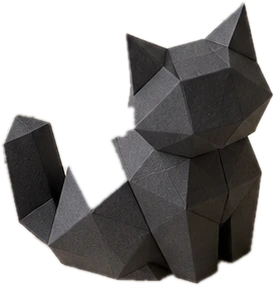
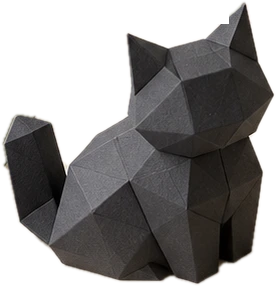
Fix cat cutout (missing back facets) and make it smaller
Claude-Session: https://claude.ai/code/session_01JDrZAnP6vo5iH3Zm12SnHF

diff --git a/index.html b/index.html
@@ -89,7 +89,7 @@ svg{display:block;overflow:visible}
 .laptop .cursor{animation:blink 1s steps(2) infinite}
 @keyframes blink{50%{opacity:0}}
 .envelope{left:24%;bottom:86px;width:120px;filter:drop-shadow(0 6px 5px rgba(60,50,35,.25));transform:rotate(-6deg)}
-.cat{left:7%;bottom:62px;width:150px;cursor:pointer;filter:drop-shadow(0 14px 10px rgba(40,35,30,.35));transform:translate(calc(var(--px)*10px),0);transition:transform .5s var(--ease-out)}
+.cat{left:7%;bottom:62px;width:118px;cursor:pointer;filter:drop-shadow(0 14px 10px rgba(40,35,30,.35));transform:translate(calc(var(--px)*10px),0);transition:transform .5s var(--ease-out)}
 .cat img{display:block;width:100%;height:auto;transform-origin:50% 100%;animation:catBreath 4s ease-in-out infinite}
 @keyframes catBreath{50%{transform:scale(1.015,.985)}}
 @keyframes tail{50%{transform:rotate(-14deg)}}
@@ -383,7 +383,7 @@ svg{display:block;overflow:visible}
   .star svg{width:46px}
   .floor{height:330px}
   .gacha{right:50%;margin-right:-110px;bottom:70px;width:220px}
-  .cat{left:6%;bottom:50px;width:150px}
+  .cat{left:6%;bottom:50px;width:116px}
   .blocks{left:auto;right:6%;bottom:250px;width:100px}
   .board{grid-template-columns:repeat(4,1fr)}
 }
@@ -405,7 +405,7 @@ svg{display:block;overflow:visible}
   .lead{margin-top:12px}
   .floor{height:250px}
   .gacha{width:168px;right:9%;margin-right:0;bottom:34px}
-  .cat{width:128px;left:9%;bottom:30px}
+  .cat{width:100px;left:10%;bottom:32px}
   .blocks{display:none}
   .lip{height:40px}
   .garland{height:60px;margin-top:24px}
@@ -511,7 +511,7 @@ svg{display:block;overflow:visible}
         <polygon points="2,2 118,2 60,42" fill="#e5b4ab"/><polygon points="60,42 118,2 60,2" fill="#d9a59b"/>
       </svg>
       <div class="prop cat" id="cat" aria-hidden="true">
-        <img src="img/cat.webp" width="276" height="287" alt="">
+        <img src="img/cat.webp" width="277" height="287" alt="">
         <span class="say" id="catSay">にゃ</span>
       </div>
 
